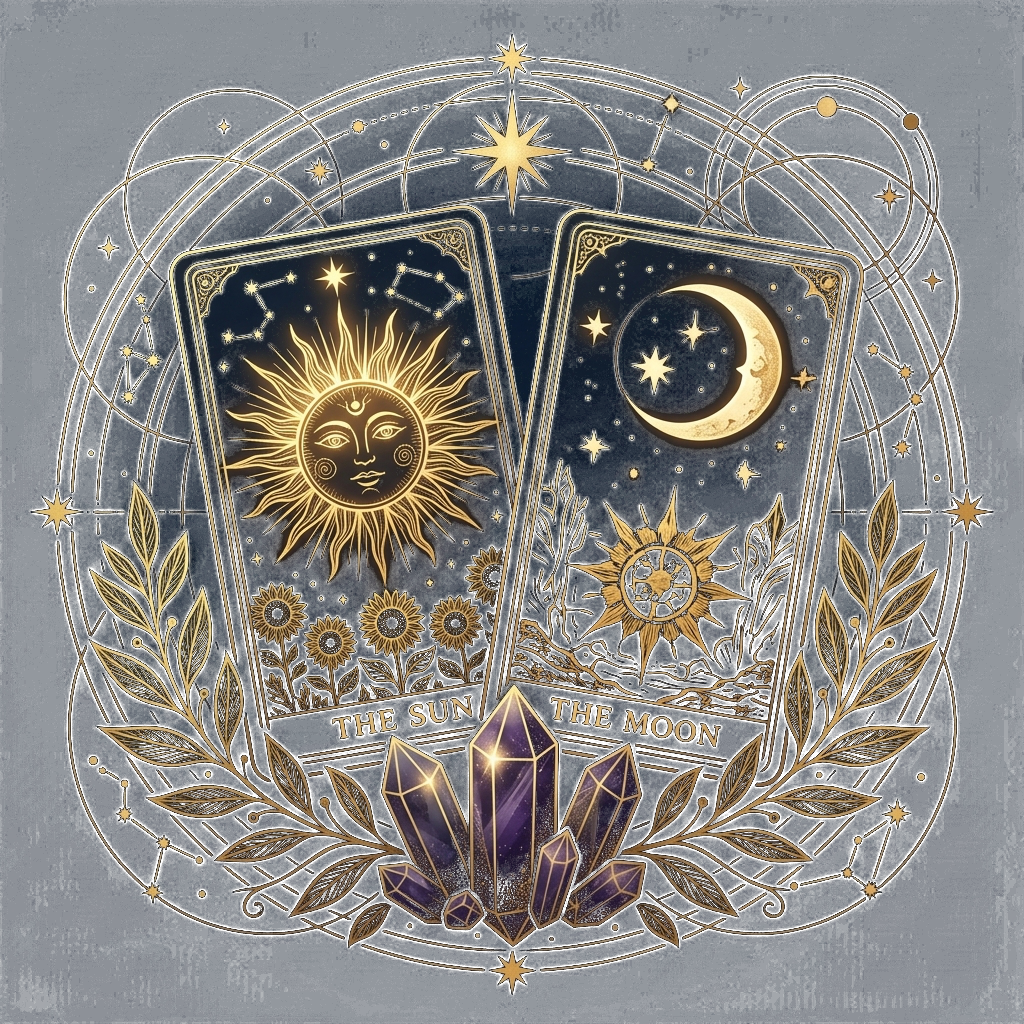
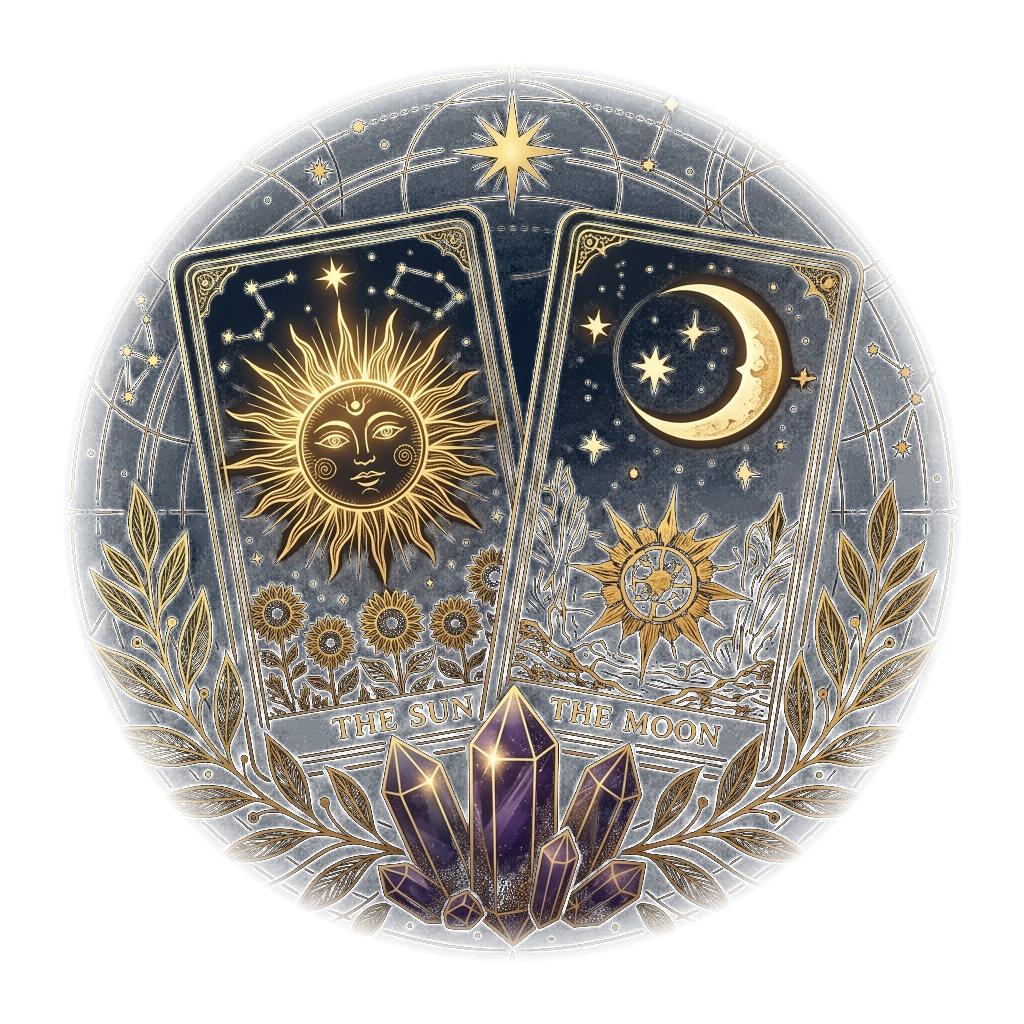
fix(hero): remove overlapping dashed circle and clean alpha feathering on hero artwork

diff --git a/apps/web/src/components/sections/home/HeroArtwork.tsx b/apps/web/src/components/sections/home/HeroArtwork.tsx
@@ -5,11 +5,8 @@ import Image from "next/image";
 export default function HeroArtwork() {
   return (
     <div className="relative mx-auto flex w-full max-w-[340px] sm:max-w-[460px] lg:max-w-[530px] items-center justify-center select-none">
-      {/* Ambient Pulsing Celestial Glow */}
-      <div className="absolute -inset-8 rounded-full blur-3xl pointer-events-none bg-[#C59758]/20 dark:bg-[#D5AE63]/25 animate-pulse-glow transition-colors duration-500" />
-
-      {/* Rotating Sacred Constellation Ring */}
-      <div className="absolute -inset-6 rounded-full border border-dashed border-[#C59758]/30 dark:border-[#D5AE63]/30 animate-rotate-slow pointer-events-none" />
+      {/* Ambient Soft Gold Halo */}
+      <div className="absolute inset-4 rounded-full blur-3xl pointer-events-none bg-[#C59758]/20 dark:bg-[#D5AE63]/20 animate-pulse-glow transition-colors duration-500" />
 
       {/* Generated Artwork Container with organic floating motion */}
       <div className="relative w-full transition-all duration-300 animate-float-slow">
